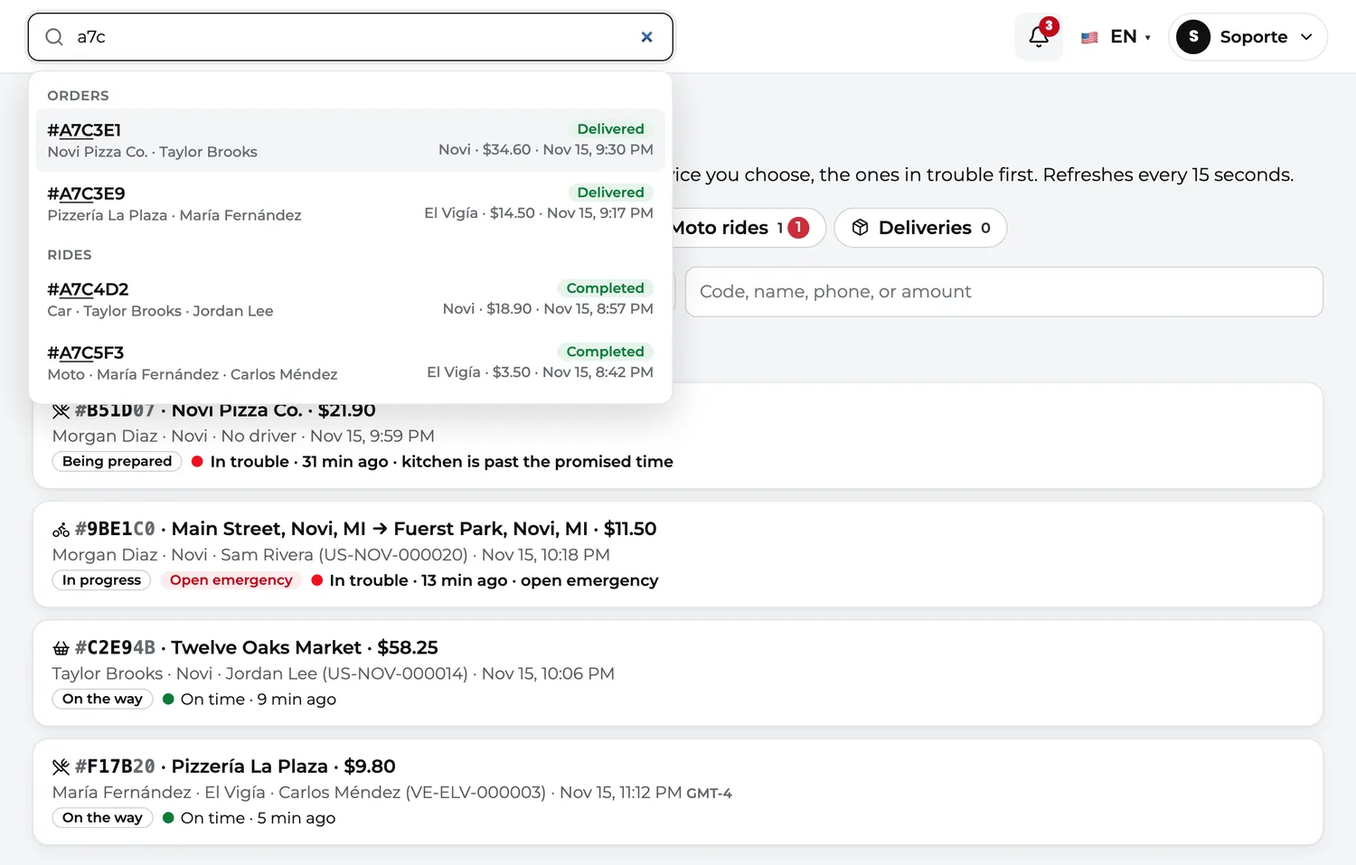
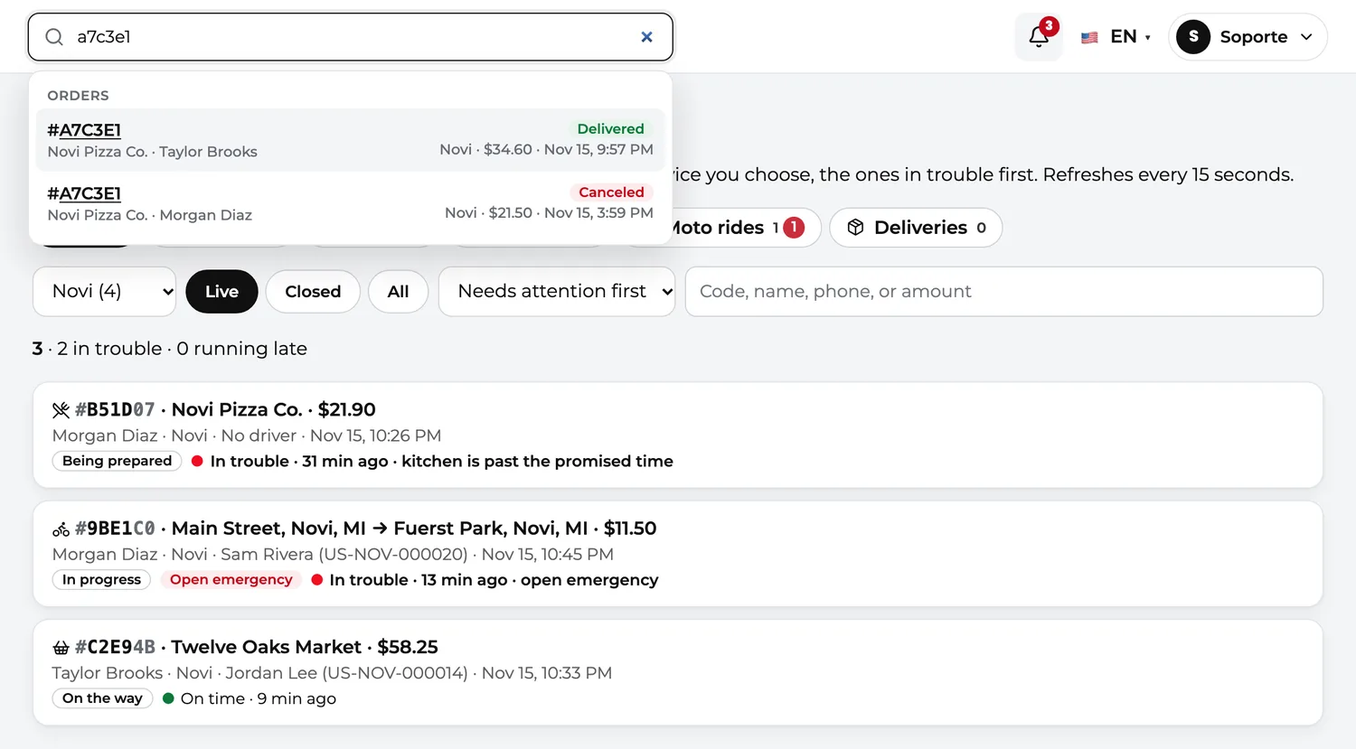
docs: guía «Adding team members and permissions» en inglés y español con capturas del equipo interno, y captura del buscador en inglés rehecha solo con datos de Novi — todos los países

Changed region(s): [[0.0, 0.0, 0.9507, 0.965], [0.736, 0.0, 0.9507, 0.0905]]

diff --git a/apps/panel/src/sitio/docs/operaciones.ts b/apps/panel/src/sitio/docs/operaciones.ts
@@ -33,8 +33,8 @@ const en: Guia[] = [
       foto(
         'buscador',
         'en',
-        'The operations panel search bar with “a7c” typed: the dropdown shows two orders and two rides whose codes start that way, each with its status, city, amount and date.',
-        'Typing “a7c” shows every order and ride that starts that way, grouped by type.',
+        'The operations panel search bar with “a7c3e1” typed: the dropdown shows two orders from Novi that share the same code, one delivered and one canceled, each with its status, city, amount and date.',
+        'Two orders share the code A7C3E1, so the search shows both, with their status and date.',
       ),
     ],
     preguntas: [
@@ -261,6 +261,97 @@ const en: Guia[] = [
       'Look at Active cities to see the current time in every city.',
       'Open any order or ride: the times follow your choice, and show the zone when it differs from yours.',
     ],
+  },
+  {
+    id: 'add-team-members-permissions',
+    titulo: 'Adding team members and permissions',
+    resumen:
+      'Invite a new person to the operations panel with a role template, a scope by city and service, and an optional expiry date, and see everything they did and viewed.',
+    explicacion: [
+      'Everyone who signs in to Divoox’s operations panel has exactly the access their job needs, no more. Open “Internal team” in the left menu. It has four tabs: People, Role templates, Log and My alerts. People lists everyone who can sign in, with their status (Active, Suspended or Invited), their templates, their scope, their last sign-in and when their access expires. Pending invitations are listed on top.',
+      'Access is built from three things. First, role templates, which are ready-made sets of permissions: Monitor (watches live orders and rides, and cannot see photos or personal data), Support level 1 (tickets, order chat and delivery photos), Support level 2 (level 1, plus cancel, release a driver, approve a location and refund up to its limit, and it can reveal full phone numbers and emails), Identity verifier, Ride emergencies, Finance, Supervisor, Auditor (sees everything without changing anything) and Full access. You can give a person several templates and they add up. Second, the scope: the countries, cities and services where they work; leave it empty and they work everywhere. Third, an optional expiry date, after which their access ends by itself.',
+      'To add someone, click “Add employee,” type their work email and full name, choose their templates, their scope and, if you want, the date their access expires. Write the reason, choose the language of the invitation and click “Send invitation.” They get a one-time invitation that expires in 7 days. They open it, confirm their name, create their own password and sign in. You never see or choose their password, and the link stops working the moment it is used.',
+      'Nobody can give more than they have. You can only hand out permissions, cities, services and limits that your own access already includes. You cannot change your own access, and you cannot edit or suspend someone who has permissions you do not have. The owner of the account always keeps full access and cannot be suspended.',
+      'Sensitive things are protected. Photos stay blurred until you click “View photo,” and phone numbers and emails stay partly hidden until you click “Show,” and only if your templates allow it. If they do not, the screen says “Your access doesn’t include delivery photos.” Every time someone views a photo or a personal detail, the Log records who, what, which order or person, and when. It never stores the photo or the detail itself, and it is kept for 90 days. You can filter the Log by what was viewed, by person and by dates, and export it as a CSV file.',
+      'Click a person’s name to open their file. It shows their access, their effective permissions (each one says which template it comes from), what they did, what they viewed, and the changes made to their access. From the three-dot menu you can Suspend, Reactivate or Remove access; each asks for confirmation and a reason, which stays in the log with your name. Suspending or removing someone signs them out of every device immediately.',
+    ],
+    capturas: [
+      foto(
+        'equipo-lista',
+        'en',
+        'The Internal team screen with the tabs People, Role templates, Log and My alerts, the search box, the Add employee button, and two pending invitations with their template, scope and expiry.',
+        'Internal team: the tabs, “Add employee” and the pending invitations.',
+      ),
+      foto(
+        'equipo-agregar-plantillas',
+        'en',
+        'The Add employee form with the work email, the full name and the role templates Monitor, Support level 1, Support level 2, Identity verifier, Ride emergencies and Finance, with Support level 1 checked.',
+        'Add employee: pick one or more role templates.',
+      ),
+      foto(
+        'equipo-agregar-vence',
+        'en',
+        'The end of the Add employee form with the optional expiry date, the reason, the language of the invitation, and the Cancel and Send invitation buttons.',
+        'Optional expiry date, reason, and “Send invitation.”',
+      ),
+      foto(
+        'equipo-plantillas',
+        'en',
+        'The Role templates tab with the nine built-in templates: Monitor, Support level 1, Support level 2, Identity verifier, Ride emergencies, Finance, Supervisor, Auditor and Full access, each with its description and permissions.',
+        'The nine role templates and what each one can do.',
+      ),
+      foto(
+        'equipo-aceptar',
+        'en',
+        'The Join the Divoox team page: who invited you and when the invitation expires, your role, your email and name, and the two password boxes with the eye button.',
+        'What the new person sees when they open their one-time invitation.',
+      ),
+      foto(
+        'equipo-ficha-acceso',
+        'en',
+        'A team member’s file with their templates, scope, expiry and last sign-in, and the list of effective permissions, each one saying which template it comes from.',
+        'A person’s file: their access and their effective permissions.',
+      ),
+      foto(
+        'equipo-ficha-vio',
+        'en',
+        'The What they viewed and Changes to their access cards of a team member’s file, showing a delivery photo that was viewed and the invitation that added them.',
+        'What they viewed, and the changes to their access.',
+      ),
+      foto(
+        'equipo-foto',
+        'en',
+        'A case page where the delivery photo is replaced by a gray box that says Your access doesn’t include delivery photos, with the note that every view is logged and the photo is kept for 30 days.',
+        'Without the permission, the photo does not open.',
+      ),
+      foto(
+        'equipo-registro',
+        'en',
+        'The Log tab with the filters What to look at, Person, From and To, the Export CSV button, and two rows showing a full phone number and a delivery photo that were viewed.',
+        'The Log: who viewed what, and when.',
+      ),
+    ],
+    preguntas: [
+      'How do I add a new person to the team?',
+      'Which role template should I give to a new person?',
+      'Can I limit someone to one city or one service?',
+      'How do I give someone access for only a few days?',
+      'How do I see who viewed a photo or a phone number?',
+      'How do I suspend someone or remove their access?',
+    ],
+    pasos: [
+      'Open “Internal team” in the left menu and click “Add employee.”',
+      'Type the work email and the full name.',
+      'Choose one or more role templates. Check the Role templates tab if you are not sure what each one does.',
+      'Choose the scope: countries, cities and services. Leave everything unchecked to work everywhere.',
+      'Optionally set an expiry date, write the reason and choose the language of the invitation.',
+      'Click “Send invitation.” It is a one-time link and expires in 7 days; a pending invitation shows in the list.',
+      'The new person opens the link, creates their password and signs in with the access you gave them.',
+      'To review someone, click their name: their access, what they did, what they viewed and the changes to their access are in their file.',
+      'To pause someone, use the three-dot menu: Suspend (you can Reactivate later) or Remove access. Write the reason and confirm.',
+      'To audit who viewed photos or personal data, open the Log tab, choose “What was viewed,” filter by person or dates, and export the CSV if needed.',
+    ],
+    nota: 'If you cannot find the button to add or edit someone, your templates do not include managing the team. Ask a Supervisor or the account owner.',
   },
 ];
 
@@ -490,6 +581,97 @@ const es: Guia[] = [
       'Mira Ciudades activas para ver la hora actual en cada ciudad.',
       'Abre cualquier pedido o viaje: las horas siguen tu elección, y muestran la zona cuando difiere de la tuya.',
     ],
+  },
+  {
+    id: 'add-team-members-permissions',
+    titulo: 'Agregar personas al equipo y sus permisos',
+    resumen:
+      'Invita a una persona nueva al panel de operaciones con una plantilla de puesto, un alcance por ciudad y servicio y una fecha de vencimiento opcional, y mira todo lo que hizo y lo que vio.',
+    explicacion: [
+      'Cada persona que entra al panel de operaciones de Divoox tiene exactamente el acceso que necesita su trabajo, ni más ni menos. Abre «Equipo interno» en el menú de la izquierda. Tiene cuatro pestañas: Personas, Plantillas de puesto, Registro y Mis avisos. Personas lista a todos los que pueden entrar, con su estado (Activo, Suspendido o Invitado), sus plantillas, su alcance, su última entrada y cuándo vence su acceso. Las invitaciones pendientes salen arriba.',
+      'El acceso se arma con tres cosas. Primero, las plantillas de puesto, que son conjuntos de permisos ya listos: Monitor (vigila los pedidos y viajes en curso, y no ve fotos ni datos personales), Soporte nivel 1 (tickets, chat de los pedidos y fotos de entrega), Soporte nivel 2 (lo de nivel 1, más cancelar, soltar repartidor, autorizar una ubicación y devolver hasta su tope, y puede ver teléfonos y correos completos), Verificador de identidad, Emergencias de viaje, Finanzas, Supervisor, Auditor (mira todo sin cambiar nada) y Total. A una persona le puedes dar varias plantillas y se suman. Segundo, el alcance: los países, las ciudades y los servicios donde trabaja; si lo dejas vacío, trabaja en todos. Tercero, una fecha de vencimiento opcional, después de la cual su acceso termina solo.',
+      'Para agregar a alguien, haz clic en «Agregar empleado», escribe su correo de trabajo y su nombre completo, elige sus plantillas, su alcance y, si quieres, la fecha en que vence su acceso. Escribe el motivo, elige el idioma de la invitación y haz clic en «Mandar invitación». La persona recibe una invitación de un solo uso que vence en 7 días. La abre, confirma su nombre, crea su propia contraseña y entra. Tú nunca ves ni eliges su contraseña, y el enlace deja de servir en el momento en que se usa.',
+      'Nadie da más de lo que tiene. Solo puedes repartir permisos, ciudades, servicios y topes que tu propio acceso ya incluye. No puedes cambiar tu propio acceso, ni editar o suspender a alguien con permisos que tú no tienes. El dueño de la cuenta siempre conserva el acceso total y no se puede suspender.',
+      'Lo delicado está protegido. Las fotos salen borrosas hasta que haces clic en «Ver foto», y los teléfonos y correos salen parcialmente tapados hasta que haces clic en «Ver dato», y solo si tus plantillas lo permiten. Si no lo permiten, la pantalla dice «Tu acceso no incluye ver fotos de entrega». Cada vez que alguien ve una foto o un dato personal, el Registro anota quién, qué, de qué pedido o persona y cuándo. Nunca guarda la foto ni el dato, y se conserva 90 días. Puedes filtrar el Registro por lo que se vio, por persona y por fechas, y exportarlo como archivo CSV.',
+      'Haz clic en el nombre de una persona para abrir su ficha. Muestra su acceso, sus permisos efectivos (cada uno dice de qué plantilla viene), lo que hizo, lo que vio y los cambios de su acceso. En el menú de tres puntos puedes Suspender, Reactivar o Quitar acceso; cada uno pide confirmación y un motivo, que queda en el registro con tu nombre. Suspender o quitar el acceso a alguien lo saca de todos sus aparatos al instante.',
+    ],
+    capturas: [
+      foto(
+        'equipo-lista',
+        'es',
+        'La pantalla Equipo interno con las pestañas Personas, Plantillas de puesto, Registro y Mis avisos, el botón Agregar empleado, las invitaciones pendientes y la lista de personas con su estado, plantilla, alcance y vencimiento.',
+        'Equipo interno: las pestañas, «Agregar empleado» y la lista de personas.',
+      ),
+      foto(
+        'equipo-agregar-plantillas',
+        'es',
+        'El formulario Agregar empleado con el correo de trabajo, el nombre completo y las plantillas de puesto Monitor, Soporte nivel 1, Soporte nivel 2, Verificador de identidad, Emergencias de viaje y Finanzas, con Soporte nivel 1 marcada.',
+        'Agregar empleado: elige una o más plantillas de puesto.',
+      ),
+      foto(
+        'equipo-agregar-alcance',
+        'es',
+        'La parte de abajo del formulario Agregar empleado con el alcance por países, ciudades y servicios, la fecha de vencimiento opcional, el motivo, el idioma de la invitación y el botón Mandar invitación.',
+        'Alcance por ciudad y servicio, vencimiento opcional y «Mandar invitación».',
+      ),
+      foto(
+        'equipo-plantillas',
+        'es',
+        'La pestaña Plantillas de puesto con las nueve plantillas de fábrica: Monitor, Soporte nivel 1, Soporte nivel 2, Verificador de identidad, Emergencias de viaje, Finanzas, Supervisor, Auditor y Total, cada una con su descripción y sus permisos.',
+        'Las nueve plantillas de puesto y lo que puede hacer cada una.',
+      ),
+      foto(
+        'equipo-aceptar',
+        'es',
+        'La página Únete al equipo de Divoox: quién te invitó y cuándo vence la invitación, tu puesto, tu correo y tu nombre, y las dos casillas de contraseña con el botón del ojito.',
+        'Lo que ve la persona nueva cuando abre su invitación de un solo uso.',
+      ),
+      foto(
+        'equipo-ficha-acceso',
+        'es',
+        'La ficha de una persona del equipo con sus plantillas, alcance, vencimiento y última entrada, y la lista de permisos efectivos, cada uno con la plantilla de la que viene.',
+        'La ficha de una persona: su acceso y sus permisos efectivos.',
+      ),
+      foto(
+        'equipo-ficha-vio',
+        'es',
+        'Las tarjetas Lo que vio y Cambios de su acceso de la ficha de una persona: todavía nada visto, y la invitación con la que entró al equipo.',
+        'Lo que vio y los cambios de su acceso.',
+      ),
+      foto(
+        'equipo-foto',
+        'es',
+        'Una página de caso donde la foto de entrega se reemplaza por un recuadro gris que dice Tu acceso no incluye ver fotos de entrega, con la nota de que cada vista queda registrada y la foto se guarda 30 días.',
+        'Sin el permiso, la foto no se abre.',
+      ),
+      foto(
+        'equipo-registro',
+        'es',
+        'La pestaña Registro con los filtros Qué mirar, Persona, Desde y Hasta, el botón Exportar CSV, y dos filas con un teléfono completo y una foto de entrega que se vieron.',
+        'El Registro: quién vio qué, y cuándo.',
+      ),
+    ],
+    preguntas: [
+      '¿Cómo agrego a una persona nueva al equipo?',
+      '¿Qué plantilla de puesto le doy a una persona nueva?',
+      '¿Puedo limitar a alguien a una ciudad o a un servicio?',
+      '¿Cómo le doy acceso a alguien por unos pocos días?',
+      '¿Cómo veo quién vio una foto o un teléfono?',
+      '¿Cómo suspendo a alguien o le quito el acceso?',
+    ],
+    pasos: [
+      'Abre «Equipo interno» en el menú de la izquierda y haz clic en «Agregar empleado».',
+      'Escribe el correo de trabajo y el nombre completo.',
+      'Elige una o más plantillas de puesto. Mira la pestaña Plantillas de puesto si no estás seguro de lo que hace cada una.',
+      'Elige el alcance: países, ciudades y servicios. Deja todo sin marcar para que trabaje en todos.',
+      'Si quieres, pon una fecha de vencimiento, escribe el motivo y elige el idioma de la invitación.',
+      'Haz clic en «Mandar invitación». Es un enlace de un solo uso que vence en 7 días; la invitación pendiente sale en la lista.',
+      'La persona nueva abre el enlace, crea su contraseña y entra con el acceso que le diste.',
+      'Para revisar a alguien, haz clic en su nombre: su acceso, lo que hizo, lo que vio y los cambios de su acceso están en su ficha.',
+      'Para pausar a alguien, usa el menú de tres puntos: Suspender (después puedes Reactivar) o Quitar acceso. Escribe el motivo y confirma.',
+      'Para auditar quién vio fotos o datos personales, abre la pestaña Registro, elige «Lo que se vio», filtra por persona o fechas y exporta el CSV si hace falta.',
+    ],
+    nota: 'Si no encuentras el botón para agregar o editar a alguien, tus plantillas no incluyen manejar el equipo. Pídeselo a un Supervisor o al dueño de la cuenta.',
   },
 ];
 

diff --git a/apps/panel/src/sitio/docs/operaciones.test.ts b/apps/panel/src/sitio/docs/operaciones.test.ts
@@ -19,6 +19,7 @@ const IDS = [
   'read-order-ride-file',
   'link-support-ticket',
   'time-zone-clock',
+  'add-team-members-permissions',
 ];
 const PROHIBIDAS = [
   /superadmin/i,
@@ -38,7 +39,7 @@ const PROHIBIDAS = [
 const AJENO_EN_INGLES = [/vigía/i, /bolívar/i, /venezuela/i, /caracas/i];
 
 describe('C-DOCS-OPERACIONES: guías del equipo de operaciones', () => {
-  it('son cinco, con direcciones en inglés y los mismos ids en los dos idiomas', () => {
+  it('son seis, con direcciones en inglés y los mismos ids en los dos idiomas', () => {
     for (const i of ['es', 'en'] as const) {
       expect(GUIAS_OPERACIONES[i].map((g) => g.id)).toEqual(IDS);
       for (const g of GUIAS_OPERACIONES[i])
@@ -100,6 +101,6 @@ describe('C-DOCS-OPERACIONES: guías del equipo de operaciones', () => {
     expect(busca('es', 'foto borrosa')).toContain('read-order-ride-file');
     expect(busca('es', 'zona horaria')).toContain('time-zone-clock');
     const iconos = IDS.map((id) => iconoDeGuia(id));
-    expect(new Set(iconos).size).toBe(5);
+    expect(new Set(iconos).size).toBe(6);
   });
 });

diff --git a/apps/panel/src/sitio/docs/iconosGuia.ts b/apps/panel/src/sitio/docs/iconosGuia.ts
@@ -48,6 +48,7 @@ const REGLAS: [RegExp, LucideIcon][] = [
   [/^monitor-/, ChartColumn],
   [/^read-order/, FileText],
   [/^time-zone/, Clock],
+  [/^add-team/, Users],
   [/^link-support/, LifeBuoy],
   [/customers-presentation/, ShoppingBag],
   [/restaurants-presentation/, Store],

diff --git a/CANDADOS.md b/CANDADOS.md
@@ -4632,11 +4632,12 @@ Orden directa de Richard del 14 nov («paradas múltiples, categorías y tarifa 
 
 ## C-DOCS-OPERACIONES: guías públicas del monitoreo para entrenar al equipo de operaciones (15 nov 2026, pedido de Richard) — todos los países
 
-- **Qué es:** sección nueva de Docs, «Operations team» / «Equipo de operaciones» (`/docs/operations`, y bajo `/es/…` con la misma dirección), con cinco guías en inglés (principal) y español: `search-orders-rides-people` (el buscador), `monitor-live-orders-rides` (pestañas por servicio, vivos/cerrados/todos, semáforo, filtros guardados), `read-order-ride-file` (tiempos, línea de tiempo, fotos borrosas, retención de 30 días, entrega en mano, viaje sin fotos del pasajero, emergencia y envío), `link-support-ticket` (reclamos enlazados y filtro por servicio) y `time-zone-clock` (Configuración → Horario).
+- **Qué es:** sección nueva de Docs, «Operations team» / «Equipo de operaciones» (`/docs/operations`, y bajo `/es/…` con la misma dirección), con seis guías en inglés (principal) y español: `search-orders-rides-people` (el buscador), `monitor-live-orders-rides` (pestañas por servicio, vivos/cerrados/todos, semáforo, filtros guardados), `read-order-ride-file` (tiempos, línea de tiempo, fotos borrosas, retención de 30 días, entrega en mano, viaje sin fotos del pasajero, emergencia y envío), `link-support-ticket` (reclamos enlazados y filtro por servicio) `time-zone-clock` (Configuración → Horario) y `add-team-members-permissions` (equipo interno: plantillas de puesto, alcance, vencimiento, invitación de un solo uso, nadie da más de lo que tiene, fotos y datos tapados con registro, suspender y quitar acceso). La guía del equipo NO menciona el segundo factor (está apagado).
 - **Dónde vive:** `apps/panel/src/sitio/docs/operaciones.ts` (`GUIAS_OPERACIONES`, las dos lenguas), la sección se suma al final en `conExtras` de `guias.ts` (id `operations` en `SeccionDocs`), íconos en `iconosGuia.ts`. Entra sola al mapa del sitio (`prerender.mjs` lee `DOCS`), al buscador de Docs y a «¿Cómo hago…?».
-- **Capturas:** las ORIGINALES de `docs/capturas/monitoreo/` recortadas a lo que se explica (sin la barra del navegador ni lo interno) y pasadas a WebP de 1500 px de ancho en `apps/panel/public/docs/monitoreo-<nombre>-<en|es>.webp`. Inglés con las de Novi; español con las de El Vigía. Solo existen en inglés `emergencia-linea`, `emergencia-detalle` y `envio-paquete` (la emergencia y el envío no se capturaron en español): la guía en español los cuenta en texto. En la captura del buscador en inglés salen dos filas de El Vigía porque el código `a7c` repite entre ciudades; las de tickets y ciudades activas se recortaron para no mostrar datos de Venezuela en inglés. Para rehacerlas: `node scripts/recorrido/capturas-monitoreo.mjs` y volver a recortar con las mismas cajas (guion en el historial de esta rama).
+- **Capturas:** las ORIGINALES de `docs/capturas/monitoreo/` recortadas a lo que se explica (sin la barra del navegador ni lo interno) y pasadas a WebP de 1500 px de ancho en `apps/panel/public/docs/monitoreo-<nombre>-<en|es>.webp`. Inglés con las de Novi; español con las de El Vigía. Solo existen en inglés `emergencia-linea`, `emergencia-detalle` y `envio-paquete` (la emergencia y el envío no se capturaron en español): la guía en español los cuenta en texto. Las de tickets y ciudades activas en inglés se recortaron para no mostrar datos de Venezuela. Para rehacerlas: `node scripts/recorrido/capturas-monitoreo.mjs` y volver a recortar con las mismas cajas (guion en el historial de esta rama).
 - **Prohibido en las guías (y su prueba):** `apps/panel/src/sitio/docs/operaciones.test.ts` falla si aparece la dirección secreta, la palabra «superadmin», rutas internas, tablas o variables (`\w_\w`), proveedores, «pronto»; si una captura no existe o pesa más de 400 KB; si cambian los ids entre idiomas; si una guía en inglés nombra Venezuela. Visto en rojo quitando una imagen y metiendo «superadmin» en un texto.
-- **Cómo agregar la guía 6, «Adding team members and permissions»** (cuando lleguen las capturas del paquete de equipo y permisos): 1) recortar y convertir sus capturas con el mismo script de recorte (`/private/tmp` del trabajo no se conserva: usar `cwebp -q 82 -resize 1500 0`) a `apps/panel/public/docs/monitoreo-equipo-<tema>-<en|es>.webp`; 2) agregar un objeto con `id: 'add-team-members-permissions'` a las listas `en` y `es` de `operaciones.ts` (mismo molde: `resumen`, `explicacion`, `capturas` con `foto('equipo-…', idioma, alt, pie)`, `preguntas` con «?» y `pasos`); 3) sumar el id a `IDS` en `operaciones.test.ts` (y subir de cinco a seis en su descripción) y su ícono en `iconosGuia.ts` (por ejemplo `[/^add-team/, Users]`); 4) hablar de «Internal team» / «Equipo interno» en Configuración y Equipo interno, sin ninguna dirección ni nombre de permiso interno; 5) `npm run verify`.
+- **Guía 6 (hecha):** capturas `equipo-*` de `docs/capturas/monitoreo/` recortadas con las cajas del guion de recorte (sin la barra del navegador ni el pie de la página pública de la invitación, sin la tarjeta del segundo factor y sin «Lo que hizo», que muestra una ruta interna). En inglés no se usa la lista de personas (trae a El Vigía) ni el alcance por ciudad (trae El Vigía y VE): en su lugar `equipo-agregar-vence`. Cuando cambie la pantalla del equipo, rehacer con `node scripts/docs/capturas-equipo-interno.mjs`, volver a recortar y revisar el texto de la guía.
+- **Captura del buscador en inglés (rehecha el 15 nov):** solo Novi. El guion `capturas-monitoreo.mjs` siembra un pedido cerrado de Novi con el MISMO código corto que el entregado (A7C3E1, `P.repetido`, cancelado: no cambia lo que está vivo) y la pasada en inglés escribe `a7c3e1` con la ciudad de Novi elegida; en español sigue `a7c` con El Vigía. `SOLO=buscador-en node scripts/recorrido/capturas-monitoreo.mjs` rehace solo esa captura. Si el simulador local falla con «no such table», volver a correr `SIN_COMPILAR=1 CARPETA_RECORRIDO=.simulador SOLO_SERVIDOR=1 node scripts/recorrido/preparar.mjs` (esquema nuevo) antes de levantar el servidor.
 - **No tocar:** no poner rutas ni la dirección secreta del panel en estas guías; no usar una captura con la barra de direcciones a la vista; cualquier pantalla nueva del monitoreo que cambie, rehace su captura y su guía en el mismo trabajo.
 
 ## C-PERMISOS-FINOS, C-EQUIPO-INVITACION y C-SEGUNDO-FACTOR-EQUIPO: el equipo interno con permisos finos (MON-5, 15 nov 2026, pedido de Richard) — todos los países

diff --git a/BITACORA-AGENTES.md b/BITACORA-AGENTES.md
@@ -1,3 +1,4 @@
+2026-11-15 · desarrollador · guía 6 de Docs «Adding team members and permissions» (equipo interno, plantillas, alcance, invitación, registro) en inglés y español con 17 capturas recortadas, y captura del buscador en inglés rehecha solo con Novi (guion capturas-monitoreo.mjs con pedido repetido de Novi y SOLO=buscador-en) · ok, npm run verify en verde
 2026-11-15 · desarrollador · cinco guías de Docs del monitoreo para el equipo de operaciones (sección nueva «Operations team», en inglés y español, 28 capturas WebP recortadas de las originales, prueba operaciones.test.ts vista en rojo) · ok, npm run verify en verde · 1be5d61a4 (la guía 6 de equipo y permisos queda para cuando lleguen sus capturas; pasos en CANDADOS.md)
 2026-11-15 · desarrollador · foto de la puerta probada en pantalla de punta a punta (guion capturas-foto-puerta.mjs, 86 comprobaciones a–g en Novi y El Vigía); arreglados: «Borrar foto» tapado en la web, 3 filas por foto en D1 (tabla WITHOUT ROWID, ahora 1), hoja del Driver (no tapa la tarjeta, puntos, deslizar para cerrar en web y teléfono); cámara web en computadora para toda subida de las apps; guías Docs es/en con capturas reales · ok · ver git log de fase-foto-puerta [para: revisor-calidad]
 2026-11-15 · investigador · ficha de diseño visual móvil (Base Web, Material 3, HIG de Apple, DoorDash, Uber Driver, estudios de Richard) con tokens recomendados y hallazgo de contraste (blanco sobre #F20D20 = 4,33:1) · ok · sin commit
